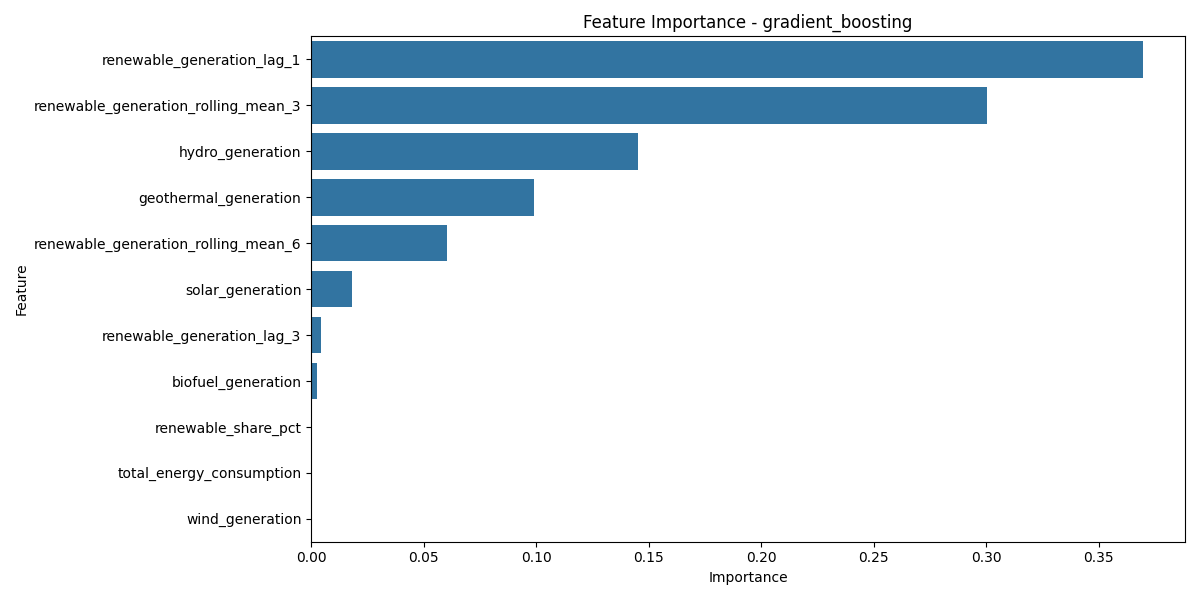
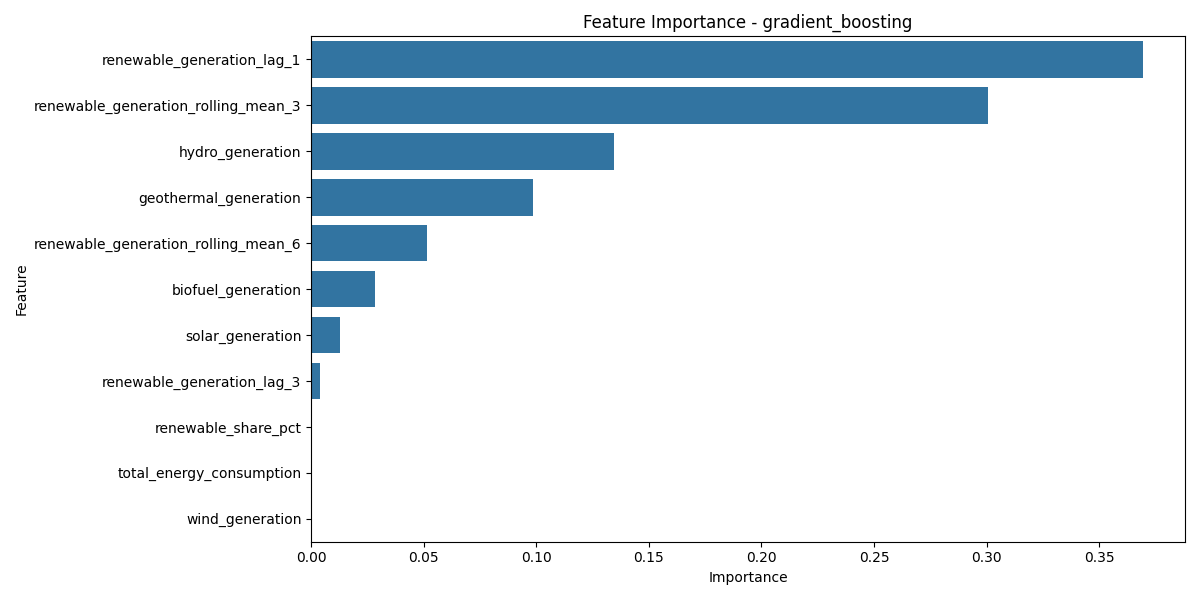
updated main function in train.py to handle NaN

diff --git a/src/models/train.py b/src/models/train.py
@@ -6,6 +6,7 @@ from typing import Dict
 import numpy as np
 import pandas as pd
 import yaml
+from sklearn.impute import SimpleImputer
 from sklearn.model_selection import train_test_split
 
 from src.models.advanced_models import AdvancedModels
@@ -235,7 +236,6 @@ class ModelTrainer:
 
 
 def main():
-    """Main execution function."""
     try:
         # Load configuration
         config_path = 'config.yaml'
@@ -253,6 +253,12 @@ def main():
         X = df[all_features]
         y = df[target_col]
 
+        # Handle missing values before splitting
+        logger.info("Preprocessing data...")
+        imputer = SimpleImputer(strategy='mean')
+        X = pd.DataFrame(imputer.fit_transform(X), columns=X.columns)
+        y = pd.Series(imputer.fit_transform(y.values.reshape(-1, 1)).ravel(), index=y.index)
+
         # Split data
         test_size = trainer.config['training'].get('test_size', 0.2)
         random_state = trainer.config['training'].get('random_state', 42)
@@ -260,7 +266,11 @@ def main():
             X, y, test_size=test_size, random_state=random_state
         )
 
+        logger.info("Training set shape: {}".format(X_train.shape))
+        logger.info("Test set shape: {}".format(X_test.shape))
+
         # Train models
+        logger.info("Starting model training...")
         metrics = trainer.train_models(X_train, X_test, y_train, y_test)
 
         # Save results
